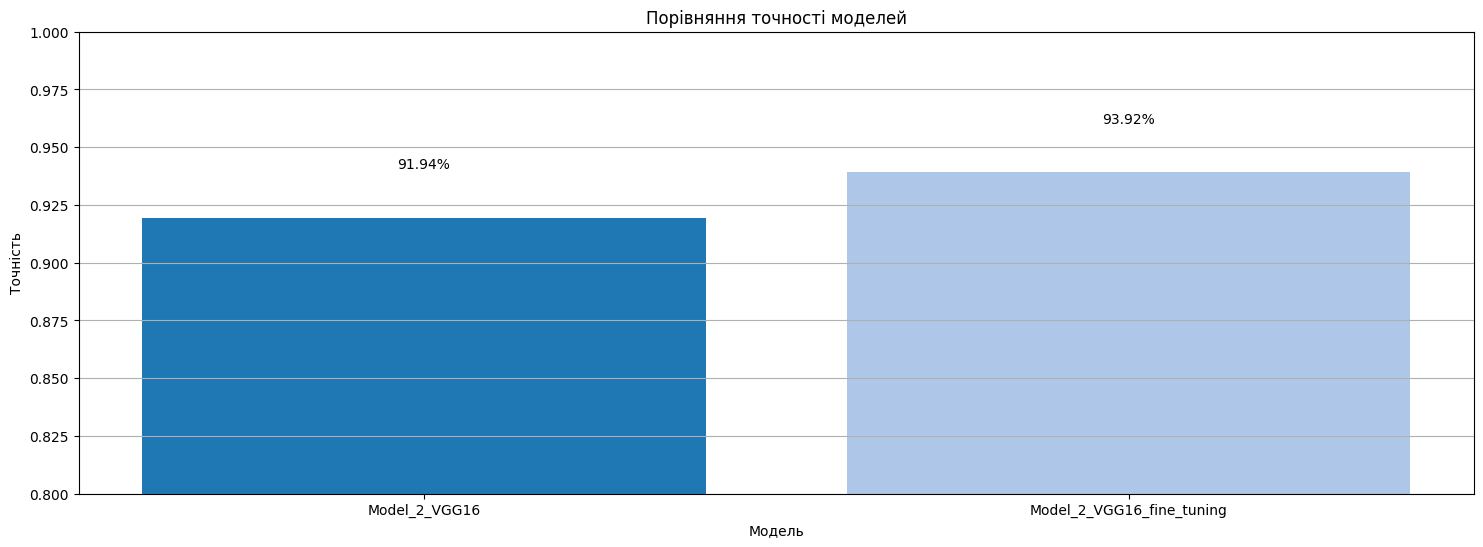
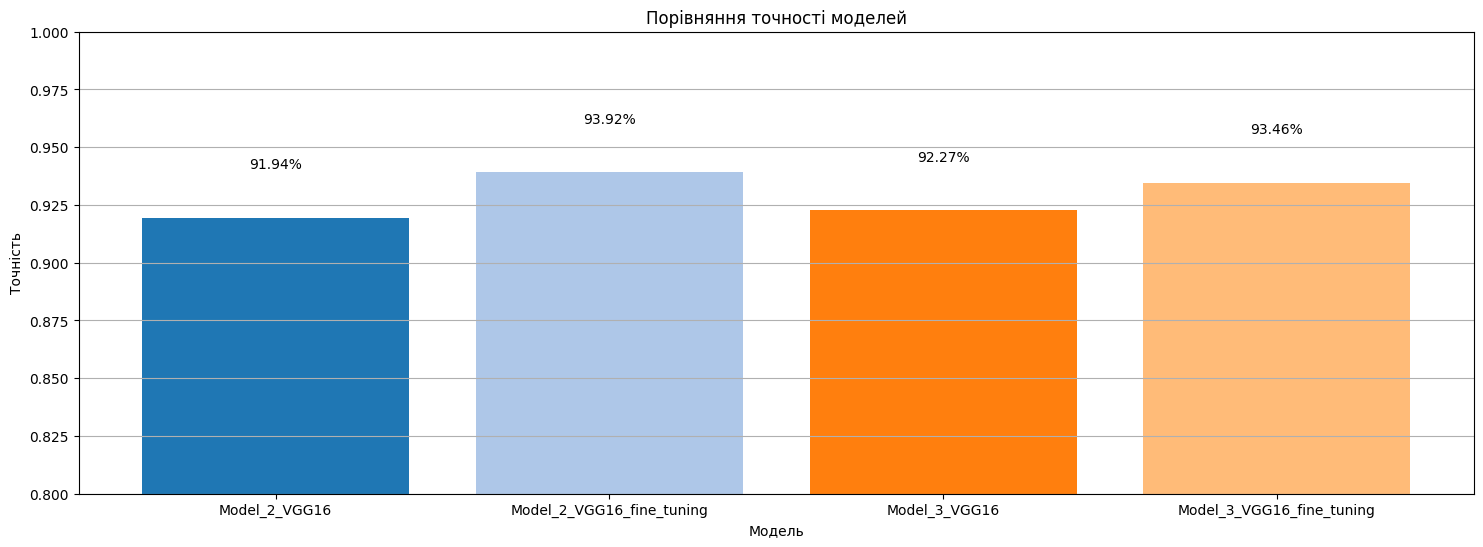
куь куÑremake readme

diff --git a/README.md b/README.md
@@ -2,13 +2,13 @@
   <img src="readme_img/logo.png" style="width: 400px;" alt="Logo">
 </div>
 
-# Вебзастосунок <span style="color:purple">InfinityVision</span> класифікує завантажені в нього зображення за допомогою Convolutional Neural Network.
+# Вебзастосунок *InfinityVision*, розроблений командою *Infinity*, класифікує завантажені в нього зображення за допомогою *Convolutional Neural Network*.
 # Розроблений на базі фреймворку [Django](https://www.djangoproject.com/)
-# Використовується модель "model_2_finetuned.h5".
+# Модель "model_3_finetuned.h5", що класифікує зображення, натренована на датасеті [CIFAR-10](https://www.kaggle.com/c/cifar-10).
 
-## Model_2_finetuned
+## Model_3_finetuned
 
-В моделі "model_2_finetuned.h5" використаний підхід донавчання (Fine-tuning) на попередньо навченій моделі "model_2_vgg16.h5":
+В моделі "model_3_finetuned.h5" використаний підхід донавчання (Fine-tuning) на попередньо навченій моделі "model_3_vgg16.h5":
 
 <div style="text-align: left;">
   <img src="readme_img/acc_compare.png" style="width: 900px;" alt="Acc_Compare">
@@ -22,7 +22,7 @@
 
 ![accurasy_finetuned.png](readme_img/accurasy_finetuned.png)
 
-### Історія тренування "model_2_finetuned.h5":
+### Історія тренування "model_3_finetuned.h5":
 
 <div style="text-align: left;">
   <img src="readme_img/acc_loss_finetuned.png" style="width: 900px;" alt="Acc_Loss_finetuned">
@@ -35,20 +35,13 @@
 </div>
 
 
-## Model_2_vgg16
-
-Основна модель "model_2_vgg16"
+## Основна модель Model_3_vgg16
 
 ### Гіперпараметри:
-* img_size: Встановлює розмір зображень у 56x56 пікселів. CIFAR-10 спочатку має розмір зображень 32x32, тому вони збільшуються до 56x56.
+* img_size: Встановлює розмір зображень у 128x128 пікселів.
 * num_classes: Кількість класів для класифікації (10 класів у CIFAR-10).
-* batch_size: Розмір батчу під час навчання (128).
-* epochs: Кількість епох для навчання (10).
-
-![GP.png](readme_img/GP.png)
-
-### Гіперпараметри для аугментації зображень:
-* rotation_range, width_shift_range, height_shift_range, shear_range, zoom_range, horizontal_flip, fill_mode
+* batch_size: Розмір батчу під час навчання (512).
+* epochs: Кількість епох для навчання (5).
 
 ### Створення базової моделі VGG16:
 * VGG16: Використовується попередньо навчена модель VGG16 (без верхніх шарів), яка завантажує попередньо навчені ваги з ImageNet.
